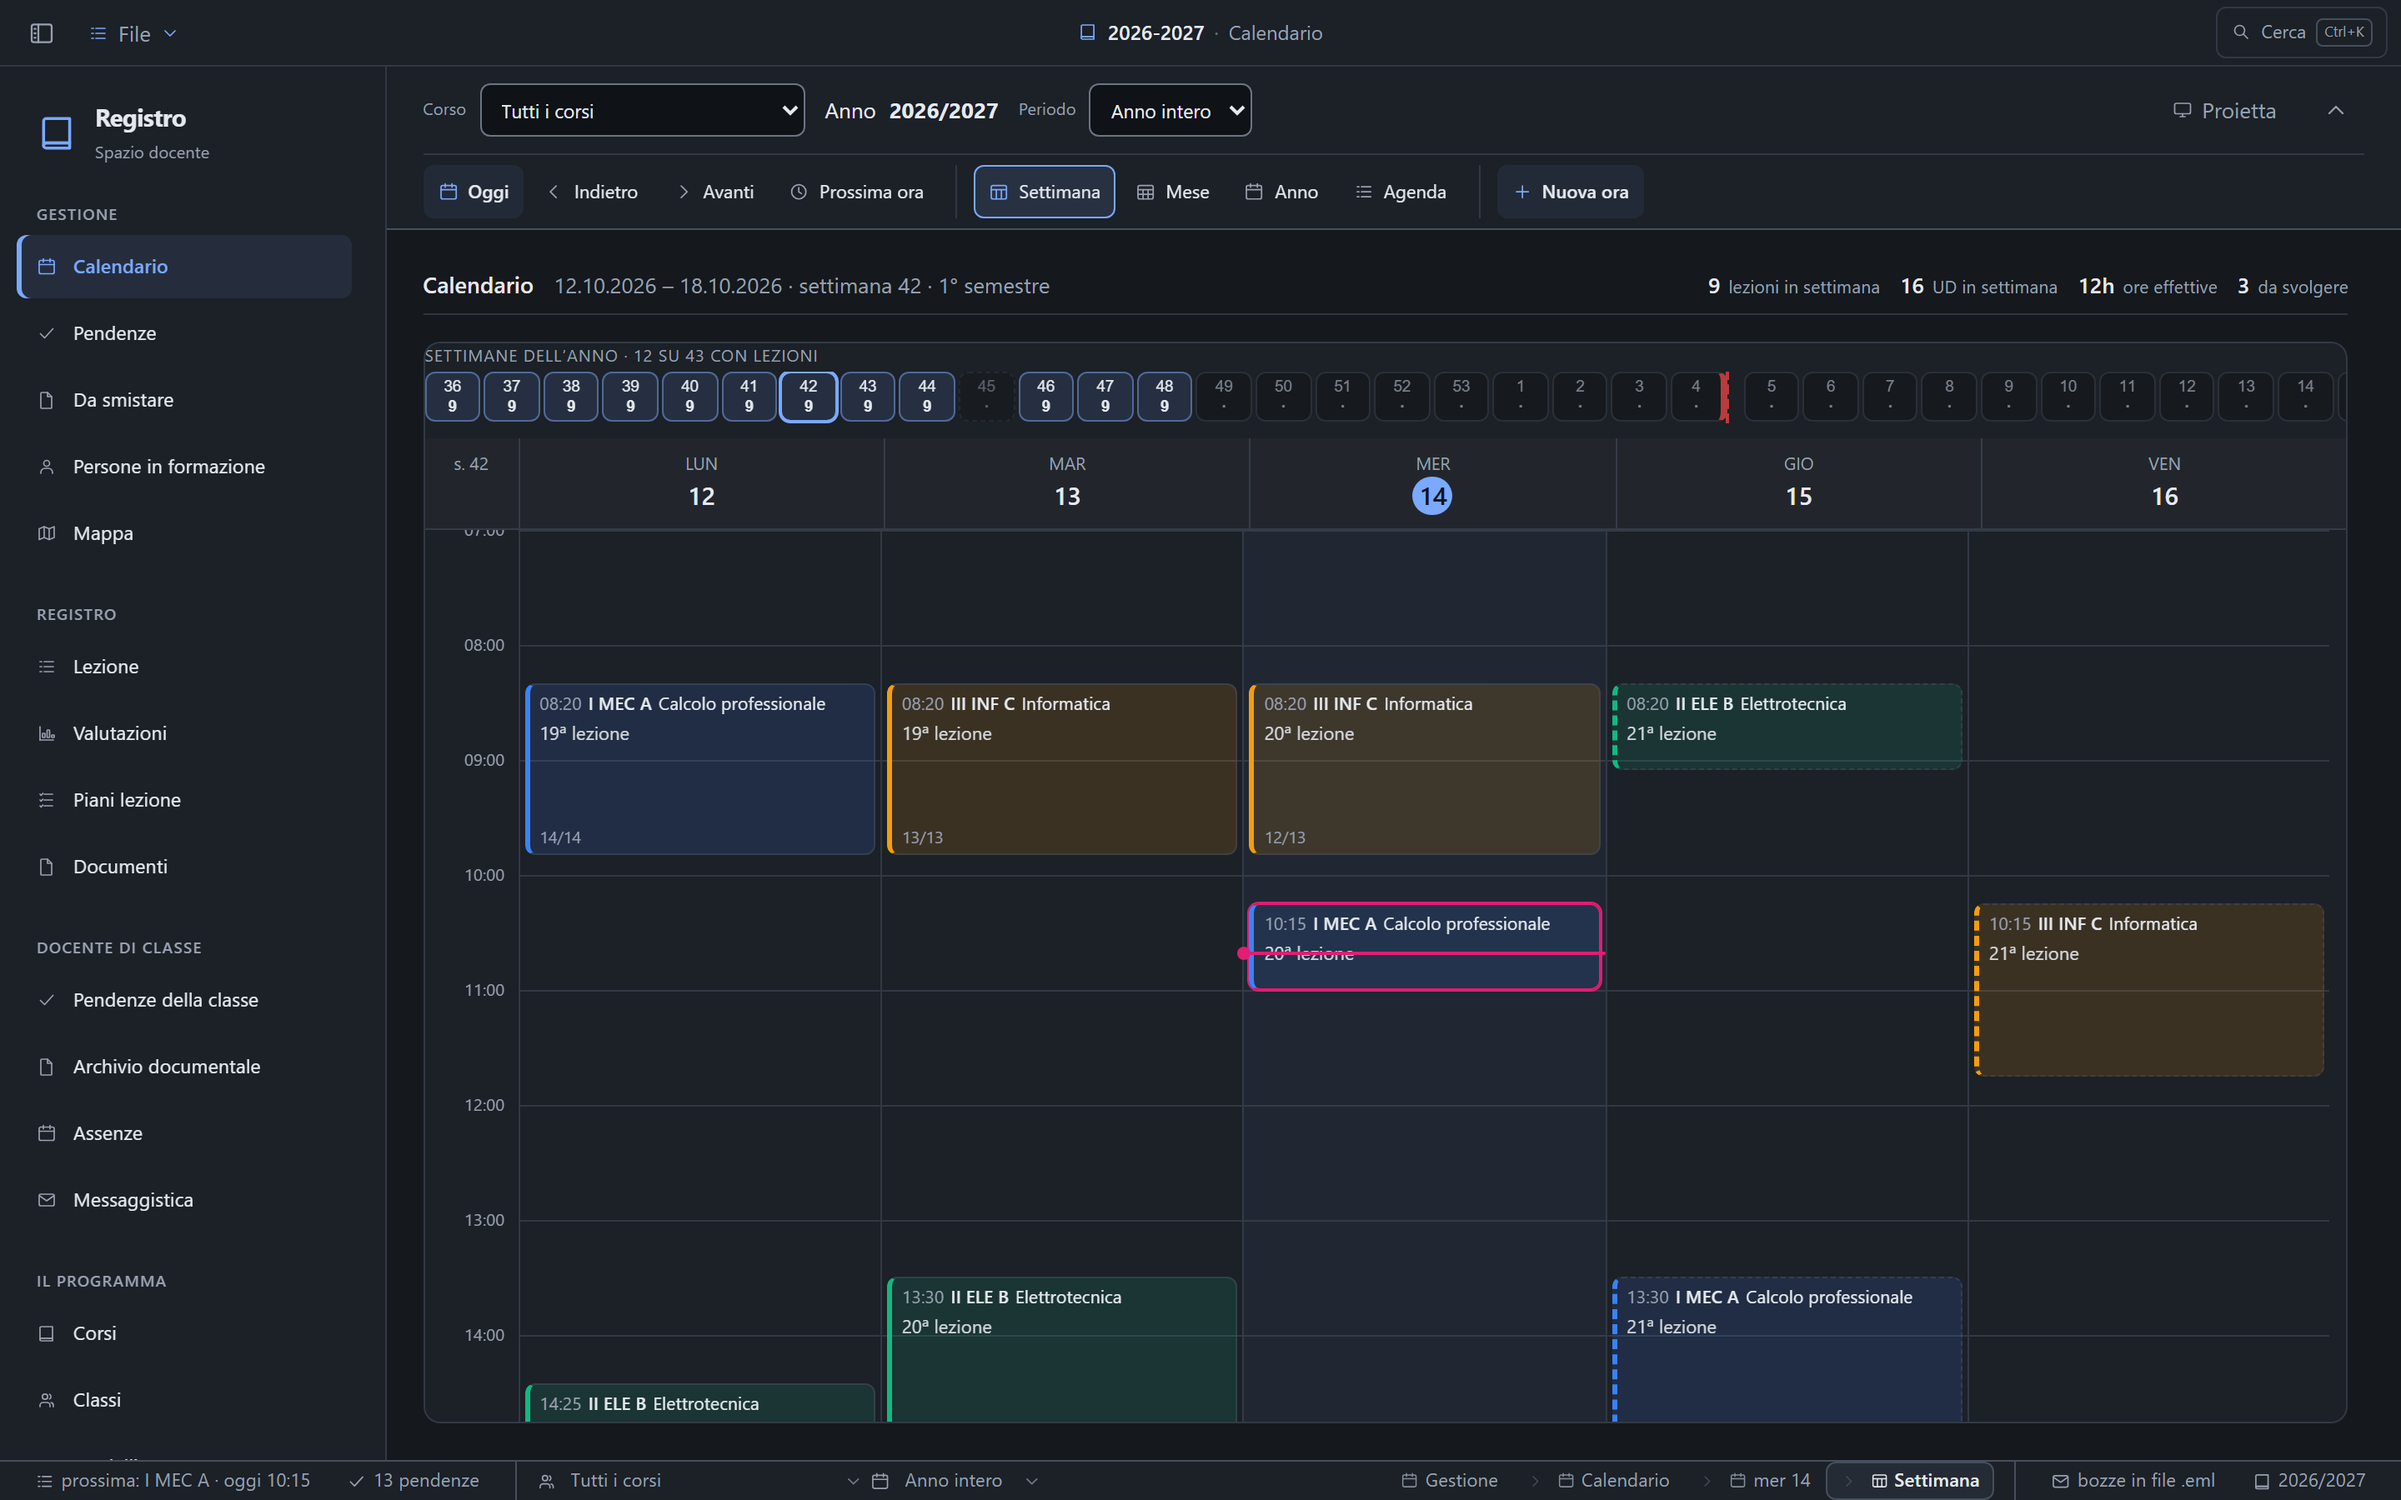
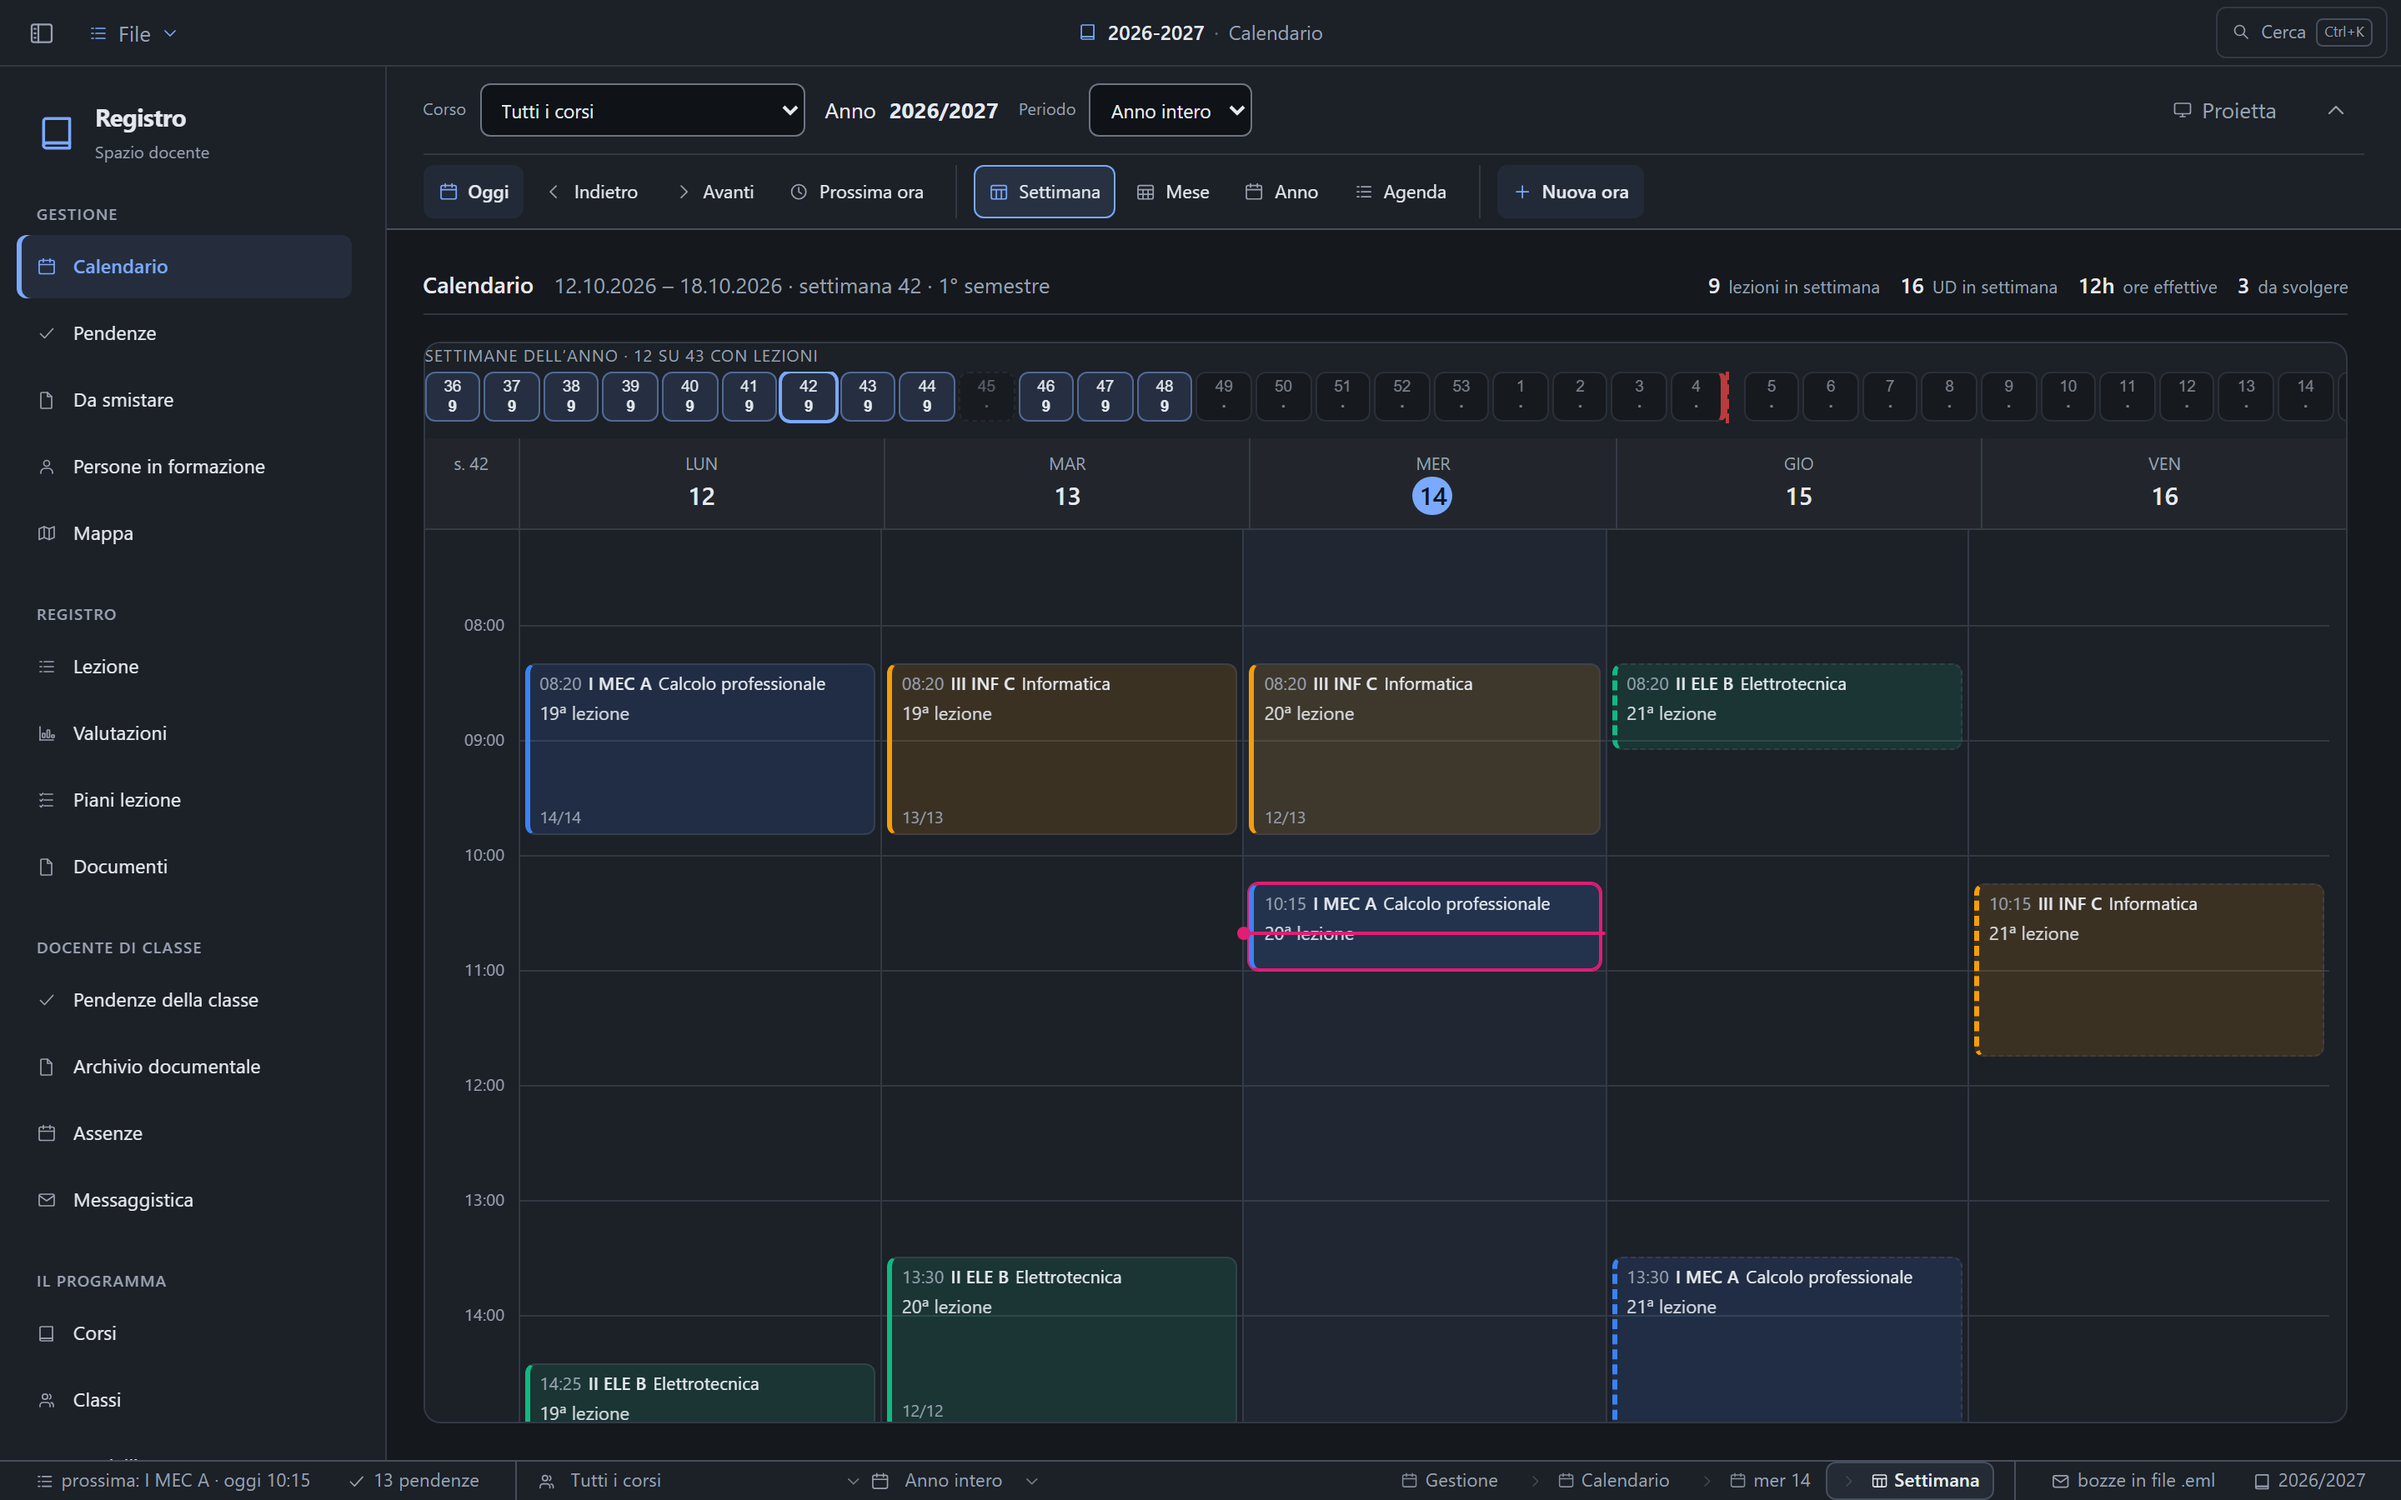
Aggiungi immagini e tabelle al README per migliorare la documentazione visiva

diff --git a/src/environment/watcher.ts b/src/environment/watcher.ts
@@ -21,6 +21,8 @@
 // dettaglio di comodo — senza, l'archivio si ricaricherebbe anche per una
 // copia finita in `.storico/` — e la traduzione del pattern è provata a parte.
 
+import { realpath } from 'node:fs/promises'
+import * as percorsi from 'node:path'
 import { dentro } from './context.js'
 import { Smaltitore, EventEmitter, type Event } from './events.js'
 import { ModelloRelativo, Uri } from './uri.js'
@@ -127,12 +129,28 @@ export function createFileSystemWatcher (dove: ModelloRelativo): Osservatore {
     return parte !== null && espressioni.some((espressione) => espressione.test(parte))
   }
 
+  /**
+   * A chokidar si dà il percorso reale della base, e quel che torna va rimesso
+   * sotto la base com'era scritta.
+   *
+   * Su Windows una cartella può arrivare col nome corto 8.3 —
+   * `C:\Users\RUNNER~1\AppData\Local\Temp` sui runner di GitHub — e libuv, che
+   * negli eventi ricostruisce il nome lungo, confronta i due e abbatte il
+   * processo: `Assertion failed: !_wcsnicmp(filename, dir, dirlen)`. Si guarda
+   * allora il percorso lungo, e gli eventi si riportano alla base di chi ha
+   * chiesto: altrimenti l'`Uri` annunciato non sarebbe più quello con cui si è
+   * scritto.
+   */
+  let reale = base.fsPath
+  const allaBase = (percorso: string): string =>
+    reale === base.fsPath ? percorso : percorsi.join(base.fsPath, percorsi.relative(reale, percorso))
+
   const annuncia = (emettitore: EventEmitter<Uri>) => (percorso: string) => {
     // L'unica via lecita per tornare a un `Uri`: `Uri.file`, la stessa che usa
     // il percorso di scrittura. Comporre la stringa a mano — anche solo
     // mettendo insieme la base e il nome — darebbe un `toString()` diverso, e
     // la difesa contro l'eco smetterebbe di riconoscere le proprie scritture.
-    const file = Uri.file(percorso)
+    const file = Uri.file(allaBase(percorso))
     if (combacia(file)) emettitore.fire(file)
   }
 
@@ -149,8 +167,11 @@ export function createFileSystemWatcher (dove: ModelloRelativo): Osservatore {
    */
   const pronto = (async () => {
     const { watch } = await import('chokidar')
+    // `realpath` delle promesse è già quello di libuv, che sul disco chiede il
+    // nome finale: è lui che scioglie `RUNNER~1`, il `realpath` in JS no.
+    reale = await realpath(base.fsPath).catch(() => base.fsPath)
     if (chiuso) return
-    const vivo = watch(base.fsPath, {
+    const vivo = watch(reale, {
       // Come in VS Code: quel che c'era già non è una novità. Chi deve
       // guardare anche l'esistente se lo rilegge da sé all'apertura.
       ignoreInitial: true,
@@ -159,7 +180,7 @@ export function createFileSystemWatcher (dove: ModelloRelativo): Osservatore {
       // interessano; i file che non combaciano non meritano un watcher
       // ciascuno. Senza la stat chokidar ripassa di qui con la stat in mano: in
       // quel giro non si decide niente.
-      ignored: (percorso, stat) => (stat?.isFile() ? !combacia(Uri.file(percorso)) : false),
+      ignored: (percorso, stat) => (stat?.isFile() ? !combacia(Uri.file(allaBase(percorso))) : false),
     })
     osservatore = vivo
     vivo.on('add', annuncia(creato))

diff --git a/src/ui/styles/retakes.css b/src/ui/styles/retakes.css
@@ -11,15 +11,19 @@
  * la casella che prende quel che resta — e il posto della lettera c'è in tutte
  * le celle, anche dove la lettera non serve: se sparisse, la casella accanto si
  * allargherebbe e le cifre della colonna non sarebbero più incolonnate.
+ *
+ * La riga è un contenitore dentro la cella, non la cella stessa: una `td` in
+ * flex smette di essere una cella di tabella, e i voti di una persona finivano
+ * uno sotto l'altro nella prima colonna, con medie e note fuori posto.
  */
-.tabella__cella--voto {
+.cella-voto__riga {
   display: flex;
   align-items: center;
   gap: 2px;
 }
 
 /* La casella prende quel che resta, e non spinge fuori la lettera. */
-.tabella__cella--voto > .cella-voto { flex: 1 1 auto; min-width: 0; }
+.cella-voto__riga > .cella-voto { flex: 1 1 auto; min-width: 0; }
 
 .cella-voto__tag {
   flex: 0 0 auto;
@@ -49,7 +53,7 @@
  * si disegna — lo apre il browser — ma è un figlio come gli altri, e dentro
  * una cella in flex conterebbe come una colonna vuota.
  */
-.tabella__cella--voto > datalist,
+.cella-voto__riga > datalist,
 .cella-voto__guscio > datalist { display: none; }
 
 /* Il guscio fuori dalla griglia: tiene insieme casella e tendina. */

diff --git a/README.md b/README.md
@@ -25,7 +25,25 @@ in un file per anno scolastico, accanto al resto del tuo materiale.
 
 </div>
 
-<!-- SCREENSHOT -->
+<picture>
+  <source media="(prefers-color-scheme: dark)" srcset="docs/immagini/calendario-scuro.png">
+  <img src="docs/immagini/calendario.png" alt="La settimana nel calendario: lezioni di tre classi, la striscia delle settimane dell'anno e l'ora in corso">
+</picture>
+
+<table>
+  <tr>
+    <td width="33%"><img src="docs/immagini/classe.png" alt="L'ora di lezione: appello, consegne e prove da riconsegnare"></td>
+    <td width="33%"><img src="docs/immagini/valutazioni.png" alt="I momenti di valutazione: griglia dei voti, medie, recuperi e distribuzione"></td>
+    <td width="33%"><img src="docs/immagini/pendenze.png" alt="Le pendenze: conteggi per tipo e recuperi da riconsegnare, classe per classe"></td>
+  </tr>
+  <tr>
+    <td align="center"><sub><b>Lezione</b> · appello, consegne, riconsegne</sub></td>
+    <td align="center"><sub><b>Valutazioni</b> · voti, medie, recuperi</sub></td>
+    <td align="center"><sub><b>Pendenze</b> · quel che aspetta, classe per classe</sub></td>
+  </tr>
+</table>
+
+<sub>Nomi e dati negli screenshot sono inventati.</sub>
 
 ---
 
